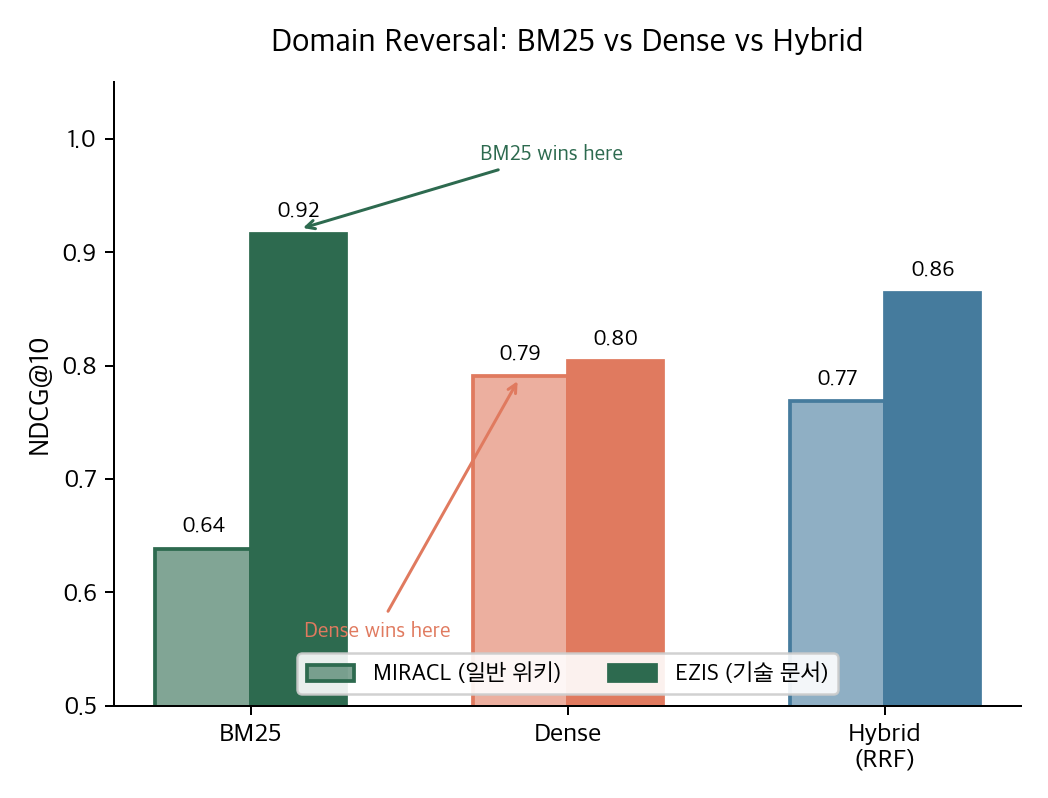
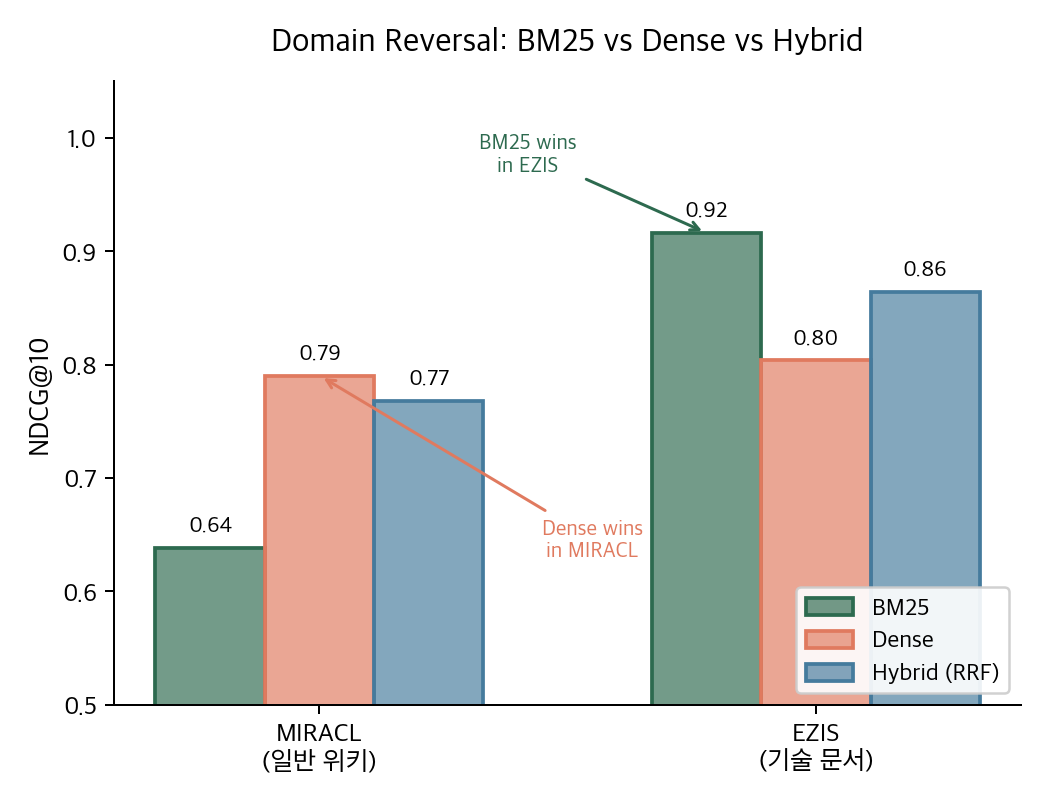
viz: group domain_reversal chart by dataset instead of method
Restructure chart_domain_reversal() so x-axis groups are MIRACL/EZIS
(datasets) with BM25/Dense/Hybrid as colored bars within each group.

The reversal pattern — Dense wins in MIRACL, BM25 wins in EZIS — is now
immediately visible without cross-group comparison.

Also fix README Phase 1 summary: MeCab is fastest but quality is
competitive with nori depending on dataset (nori 0.932 vs MeCab 0.9162
on EZIS), so "속도·품질 모두 1위" → more accurate description.

Constraint: annotations (xy, xytext) repositioned to match new bar layout
Confidence: high
Scope-risk: narrow

diff --git a/docs/images/generate_charts.py b/docs/images/generate_charts.py
@@ -147,40 +147,40 @@ def chart_tokenizer_impact():
 # Chart 4: 도메인 역전 — BM25 vs Dense
 # ━━━━━━━━━━━━━━━━━━━━━━━━━━━━━━━━━━━━━━━━━━━━━━━━━━━━━━━━━━━
 def chart_domain_reversal():
-    methods = ['BM25', 'Dense', 'Hybrid\n(RRF)']
-    miracl = [0.6385, 0.7904, 0.7683]
-    ezis =   [0.9162, 0.8041, 0.8641]
+    # x축: 데이터셋(MIRACL/EZIS), 색상: 방법(BM25/Dense/Hybrid)
+    # → "MIRACL에선 Dense 우세, EZIS에선 BM25 우세" 역전이 한눈에 보임
+    datasets = ['MIRACL\n(일반 위키)', 'EZIS\n(기술 문서)']
+    bm25   = [0.6385, 0.9162]
+    dense  = [0.7904, 0.8041]
+    hybrid = [0.7683, 0.8641]
 
-    x = np.arange(len(methods))
-    w = 0.3
+    x = np.arange(len(datasets))
+    w = 0.22
 
     fig, ax = plt.subplots(figsize=(6.5, 4.5))
-    b1 = ax.bar(x - w/2, miracl, w, label='MIRACL (일반 위키)',
-                color=[C_BM25+'99', C_DENSE+'99', C_RRF+'99'],
-                edgecolor=[C_BM25, C_DENSE, C_RRF], linewidth=1.5)
-    b2 = ax.bar(x + w/2, ezis, w, label='EZIS (기술 문서)',
-                color=[C_BM25, C_DENSE, C_RRF],
-                edgecolor=[C_BM25, C_DENSE, C_RRF], linewidth=1.5)
+    b1 = ax.bar(x - w, bm25,   w, label='BM25',        color=C_BM25+'AA',  edgecolor=C_BM25,  linewidth=1.5)
+    b2 = ax.bar(x,     dense,  w, label='Dense',       color=C_DENSE+'AA', edgecolor=C_DENSE, linewidth=1.5)
+    b3 = ax.bar(x + w, hybrid, w, label='Hybrid (RRF)', color=C_RRF+'AA',   edgecolor=C_RRF,   linewidth=1.5)
 
-    for bars in [b1, b2]:
+    for bars in [b1, b2, b3]:
         for bar in bars:
             h = bar.get_height()
             ax.text(bar.get_x() + bar.get_width()/2, h + 0.012, f'{h:.2f}',
                     ha='center', va='bottom', fontsize=9, fontweight='bold')
 
-    # 화살표 주석
-    ax.annotate('Dense wins here', xy=(1 - w/2, 0.79), fontsize=8.5, ha='center',
+    # 화살표 주석: MIRACL=Dense 우세, EZIS=BM25 우세
+    ax.annotate('Dense wins\nin MIRACL', xy=(0, 0.7904), fontsize=8.5, ha='center',
                 color=C_DENSE, fontweight='bold',
-                xytext=(0.4, 0.56), arrowprops=dict(arrowstyle='->', color=C_DENSE, lw=1.2))
-    ax.annotate('BM25 wins here', xy=(0 + w/2, 0.92), fontsize=8.5, ha='center',
+                xytext=(0.55, 0.63), arrowprops=dict(arrowstyle='->', color=C_DENSE, lw=1.2))
+    ax.annotate('BM25 wins\nin EZIS', xy=(1 - w, 0.9162), fontsize=8.5, ha='center',
                 color=C_BM25, fontweight='bold',
-                xytext=(0.95, 0.98), arrowprops=dict(arrowstyle='->', color=C_BM25, lw=1.2))
+                xytext=(0.42, 0.97), arrowprops=dict(arrowstyle='->', color=C_BM25, lw=1.2))
 
     ax.set_ylabel('NDCG@10', fontsize=11)
     ax.set_xticks(x)
-    ax.set_xticklabels(methods, fontsize=10.5)
+    ax.set_xticklabels(datasets, fontsize=10.5)
     ax.set_ylim(0.5, 1.05)
-    ax.legend(loc='lower center', fontsize=9.5, framealpha=0.9, ncol=2)
+    ax.legend(loc='lower right', fontsize=9.5, framealpha=0.9)
     ax.set_title('Domain Reversal: BM25 vs Dense vs Hybrid', fontsize=13, fontweight='bold', pad=12)
 
     save(fig, 'domain_reversal.png')
